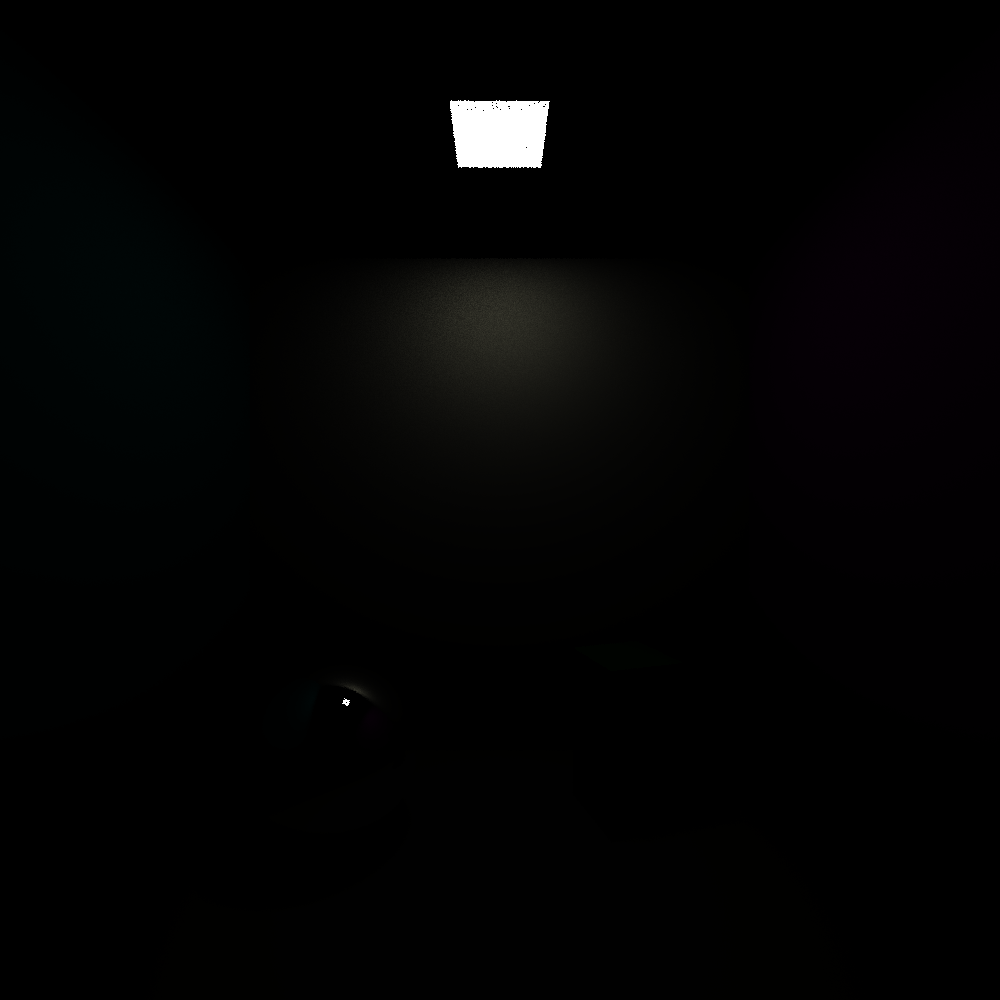
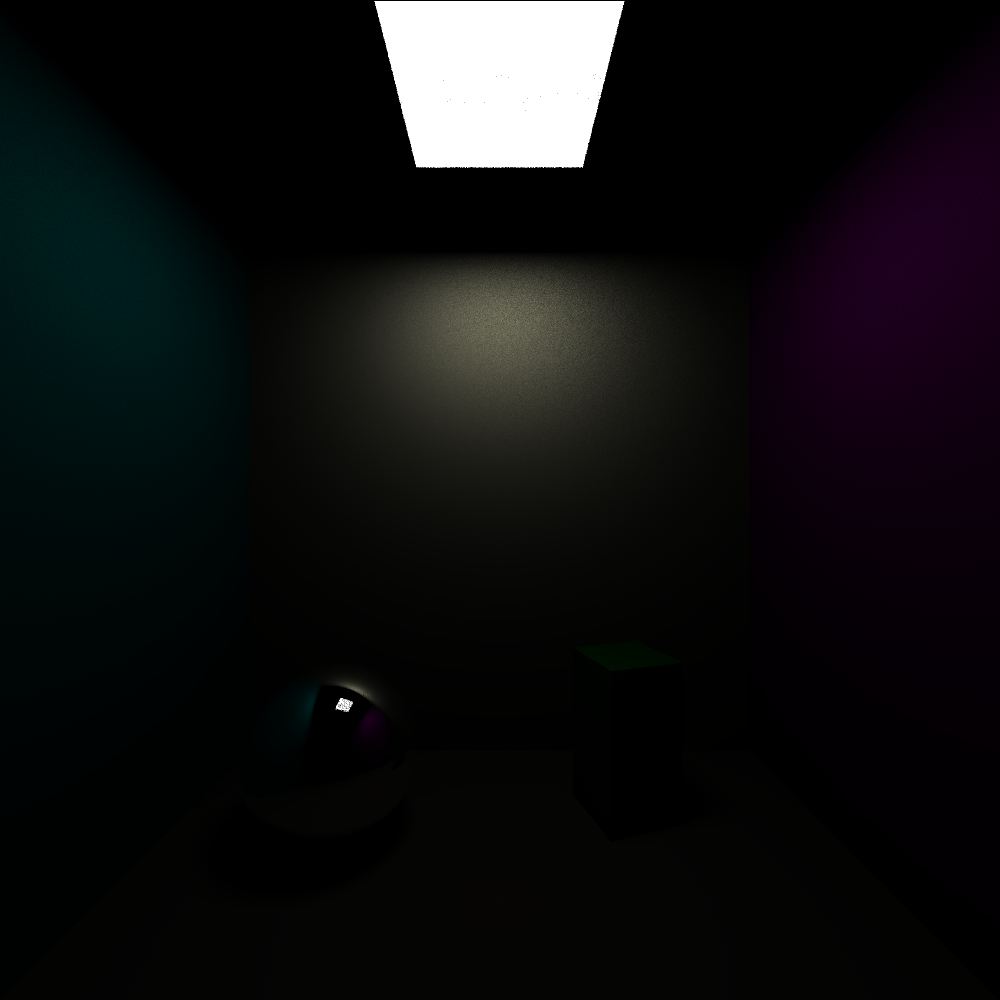
parametrize and make light bigger in box scene

diff --git a/src/tracer/scene.rs b/src/tracer/scene.rs
@@ -86,6 +86,8 @@ impl Scene {
             /* y ground */
             let yg = -0.8;
             let col = DVec3::new(255.0, 253.0, 208.0) / 255.9;
+            let light_xy = 0.2;
+            let light_z = yg - light_xy;
             Self::new(
                 DVec3::splat(0.0),
                 vec![
@@ -93,9 +95,9 @@ impl Scene {
                      * before roof in this vector and everything should be ok */
                     Rectangle::new(
                         DMat3::from_cols(
-                            DVec3::new(-0.1, -yg, yg - 0.2),
-                            DVec3::new(-0.1, -yg, yg - 0.4),
-                            DVec3::new(0.1, -yg, yg - 0.4),
+                            DVec3::new(-light_xy, -yg, light_z - light_xy),
+                            DVec3::new(-light_xy, -yg, light_z + light_xy),
+                            DVec3::new(light_xy, -yg, light_z + light_xy),
                         ),
                         Material::Light(Texture::Solid(DVec3::ONE)),
                     ),

diff --git a/src/consts.rs b/src/consts.rs
@@ -14,10 +14,12 @@ pub const RAY_MAX_DEPTH: usize = 10;
 
 /* add these to material itself? */
 /* specular lobe coefficient. smaller = bigger lobe */
-pub const _LOBE_Q: f64 = 10.0;
+#[allow(dead_code)]
+pub const LOBE_Q: f64 = 10.0;
 
 /* intensity of the specular lobe */
-pub const _SPECULAR_COEFF: DVec3 = DVec3::splat(0.0);
+#[allow(dead_code)]
+pub const SPECULAR_COEFF: DVec3 = DVec3::splat(0.0);
 
 /**
  * TEXTURES

diff --git a/src/samplers.rs b/src/samplers.rs
@@ -1,3 +1,4 @@
+#![allow(dead_code)]
 use crate::DVec2;
 use crate::rand_utils;
 
